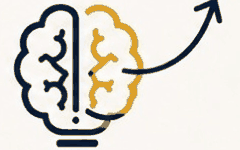
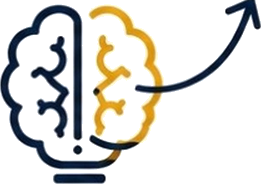
Add files via upload

diff --git a/style.css b/style.css
@@ -190,3 +190,11 @@ input[type=text]{border:3px solid #14324B;border-radius:12px;background:#fff}
 .wm img{width:min(72vw,420px);opacity:.13;mix-blend-mode:multiply}
 .tfoot{display:flex;flex-direction:column;align-items:center;gap:6px;margin-top:40px}.tfoot img{height:44px;background:#fff;border:3px solid #14324B;border-radius:14px;padding:4px 12px}
 .mhead{display:flex;align-items:center;gap:10px;margin-top:10px;background:#fff;border:3px solid #14324B;border-radius:18px;padding:6px 12px;box-shadow:0 3px 0 #14324B}.mhead img{height:26px}.mhead span{font-family:var(--display);font-weight:700;color:#14324B}
+
+/* ThinkUp identity */
+.wm img{width:min(86vw,520px);opacity:.15;mix-blend-mode:normal}
+.tulogo{background:#fff;padding:8px 16px}.tulogo img{height:46px}
+.gribbon{display:flex;align-items:center;gap:10px;margin:-16px -16px 12px;padding:8px 14px;background:linear-gradient(90deg,#14324B,#1F7A7A);border-radius:18px 18px 0 0;color:#fff;font-family:var(--display);font-weight:600}
+.gribbon img{height:26px;background:#fff;border-radius:10px;padding:3px 8px}.gribbon span{color:#FFD25E;font-size:15px}
+.q,.g{position:relative}
+.q::after,.g::after{content:"";position:absolute;right:10px;bottom:8px;width:58px;height:40px;background:url(brain.png) center/contain no-repeat;opacity:.16;pointer-events:none}

diff --git a/app.js b/app.js
@@ -225,7 +225,7 @@ document.getElementById('copyres').onclick=()=>{const t=resultText(),fb=document
 
 /* ---------- games ---------- */
 const gamesEl=document.getElementById('games');
-function gcard(title,pill,desc,ar,em){const g=document.createElement('div');g.className='g';g.innerHTML='<h3><span class="mascot" style="font-size:34px">'+em+'</span>'+title+' <span class="pill">'+pill+'</span></h3><div class="gtip">'+desc+(ar?'<div class="ar" lang="ar">'+ar+'</div>':'')+'</div><div class="gbody"></div>';gamesEl.appendChild(g);return g.querySelector('.gbody')}
+function gcard(title,pill,desc,ar,em){const g=document.createElement('div');g.className='g';g.innerHTML='<div class="gribbon"><img alt="ThinkUp" src="logo.png"><span>ThinkUp Games · Think Better. Aim Higher.</span></div><h3><span class="mascot" style="font-size:34px">'+em+'</span>'+title+' <span class="pill">'+pill+'</span></h3><div class="gtip">'+desc+(ar?'<div class="ar" lang="ar">'+ar+'</div>':'')+'</div><div class="gbody"></div>';gamesEl.appendChild(g);return g.querySelector('.gbody')}
 const mkbtn=(t,fn,cls)=>{const b=document.createElement('button');b.type='button';b.textContent=t;if(cls)b.className=cls;b.onclick=fn;return b};
 
 /* Game 1: drag the clock */
